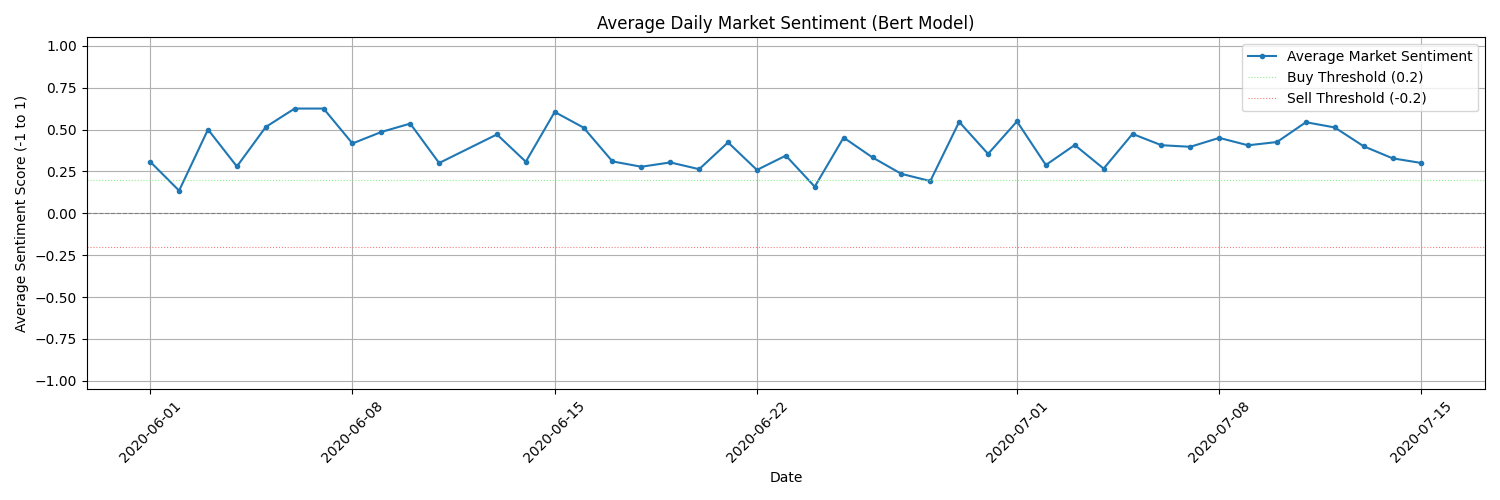
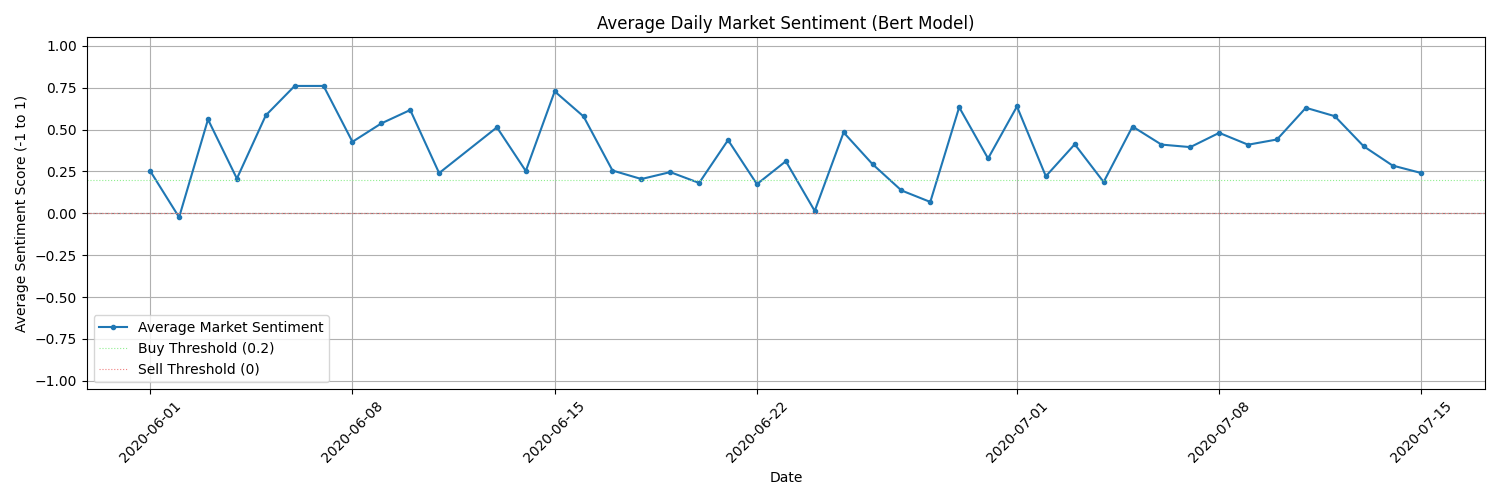
Improve trading strategy, visualizations

diff --git a/trading_simulator.py b/trading_simulator.py
@@ -19,7 +19,7 @@ TARGET_STOCKS_FOR_MARKET_SENTIMENT = [
 MARKET_INDEX_TICKER = "^GSPC" # S&P 500
 
 BUY_THRESHOLD = 0.2  # If avg_daily_sentiment >= this, Buy
-SELL_THRESHOLD = -0.2 # If avg_daily_sentiment <= this, Sell
+SELL_THRESHOLD = 0 # If avg_daily_sentiment <= this, Sell
 
 def plot_average_daily_sentiment(daily_sentiment_df, model_type, start_date, end_date):
     plt.figure(figsize=(15, 5))
@@ -107,6 +107,7 @@ def run_market_simulation(start_date, end_date, model_type, initial_capital=100.
 
     daily_avg_sentiment_df = relevant_tweets.groupby(relevant_tweets['created_at'].dt.date)['sentiment_for_avg'].mean().reset_index()
     daily_avg_sentiment_df.rename(columns={'created_at': 'date', 'sentiment_for_avg': 'avg_daily_sentiment'}, inplace=True)
+    daily_avg_sentiment_df['avg_daily_sentiment'] = (daily_avg_sentiment_df['avg_daily_sentiment'] - 0.15) * 1.6
     daily_avg_sentiment_df['date'] = pd.to_datetime(daily_avg_sentiment_df['date'])
     print("Average daily market sentiments calculated.")
     plot_average_daily_sentiment(daily_avg_sentiment_df, model_type, start_date, end_date)
@@ -207,9 +208,9 @@ if __name__ == '__main__':
     SIM_END_DATE = "2020-07-15" # Extended end date for more data points
     
     # print("\n--- Running Market Simulation with Logistic Regression ---")
-    # run_market_simulation(SIM_START_DATE, SIM_END_DATE, model_type='logistic', tweet_sample_fraction=1)
-    print("\n--- Running Market Simulation with BERT ---")
-    run_market_simulation(SIM_START_DATE, SIM_END_DATE, model_type='bert', tweet_sample_fraction=0.01)
-    # print("\n--- Running Market Simulation with GPT-2 ---")
-    # run_market_simulation(SIM_START_DATE, SIM_END_DATE, model_type='gpt2', tweet_sample_fraction=0.01)
+    # run_market_simulation(SIM_START_DATE, SIM_END_DATE, model_type='logistic', tweet_sample_fraction=0.95)
+    # print("\n--- Running Market Simulation with BERT ---")
+    # run_market_simulation(SIM_START_DATE, SIM_END_DATE, model_type='bert', tweet_sample_fraction=0.01)
+    print("\n--- Running Market Simulation with GPT-2 ---")
+    run_market_simulation(SIM_START_DATE, SIM_END_DATE, model_type='gpt2', tweet_sample_fraction=0.025)
     print("\nAll market simulations complete.") 
